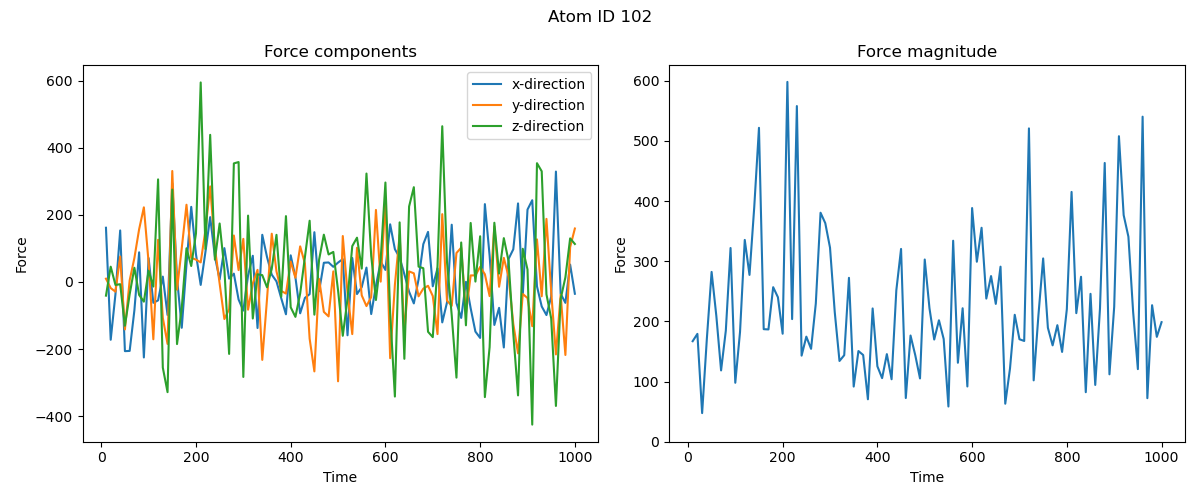
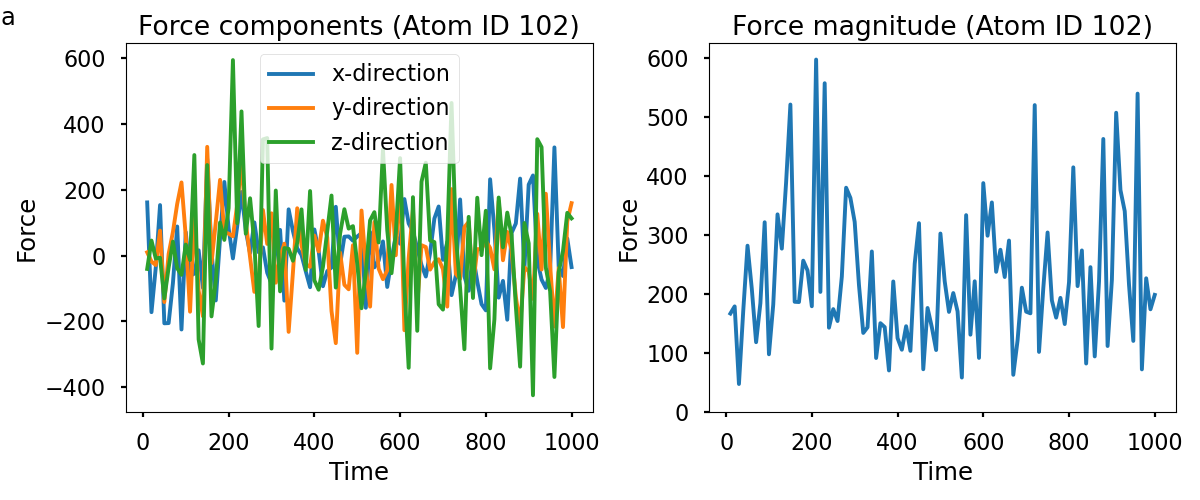
actually added force autocorrelation

diff --git a/sim-11-bidisperse-0.9/plotforces.py b/sim-11-bidisperse-0.9/plotforces.py
@@ -1,0 +1,70 @@
+import pandas as pd
+import matplotlib.pyplot as plt
+import numpy as np
+
+timestep = 0.001
+
+def autocorrelation(x,lag): # lag in number of timesteps, not time units
+    n = len(x)
+    xd = x - np.mean(x)
+    xlagged = xd[lag:]
+    xcropped = xd[:n-lag]
+    product = xlagged * xcropped
+    normfac = np.var(xd) # R for lag=0
+    R = np.mean(product)/normfac
+    return R
+
+def plotforces(atomid):
+    df = pd.read_csv(f"forces_ID{atomid}.csv")
+    plt.style.use("seaborn-v0_8-poster")
+    fig,ax = plt.subplots(1,2,figsize=(12,5))
+    cs = ["x","y","z"]
+    for c in cs:
+        ax[0].plot(df["time"]*timestep,df["f"+c],label=f"{c}-direction")
+    ax[0].set_xlabel("Time")
+    ax[0].set_ylabel("Force")
+    ax[0].legend()
+    ax[0].set_title(f"Force components (Atom ID {atomid})")
+    
+    fmag = [np.sqrt(df["fx"][i]**2 + df["fy"][i]**2 + df["fz"][i]**2) 
+            for i in range(df.shape[0])]
+    ax[1].plot(df["time"]*timestep,fmag)
+    ax[1].set_xlabel("Time")
+    ax[1].set_ylabel("Force")
+    ax[1].set_ylim([0,None])
+    ax[1].set_title(f"Force magnitude (Atom ID {atomid})")
+
+    fig.text(0,0.95,"a",size="xx-large")
+
+    fig.tight_layout()
+    fig.savefig(f"forces_ID{atomid}.png")
+
+interval = 10000
+timeperlag = interval * timestep
+
+def plotforcewcorr(atomids):
+    plt.style.use("seaborn-v0_8-poster")
+    fig,ax = plt.subplots(1,1,figsize=(7,5))
+    
+    for atomid in atomids:
+        df = pd.read_csv(f"forces_ID{atomid}.csv")
+        fmag = [np.sqrt(df["fx"][i]**2 + df["fy"][i]**2 + df["fz"][i]**2) 
+            for i in range(df.shape[0])]
+        lags = np.array([int(x) for x in np.arange(20+1)])
+        ac = [autocorrelation(fmag,l) for l in lags]
+        ax.plot(lags*timeperlag, ac, label=f"Atom ID {atomid}")
+    ax.axhline(y=0,lw=1,c="k",ls="--")
+    ax.legend(ncols=2)
+    ax.set_xlabel("Lag time")
+    ax.set_ylabel("Force autocorrelation")
+
+    fig.text(0,0.95,"b",size="xx-large")
+
+    fig.tight_layout()
+    fig.savefig(f"autocorrelation.png")
+
+selection = [73, 86, 90, 99, 101, 102, 117, 121]
+for id in selection:
+    plotforces(id)
+
+plotforcewcorr(selection)
